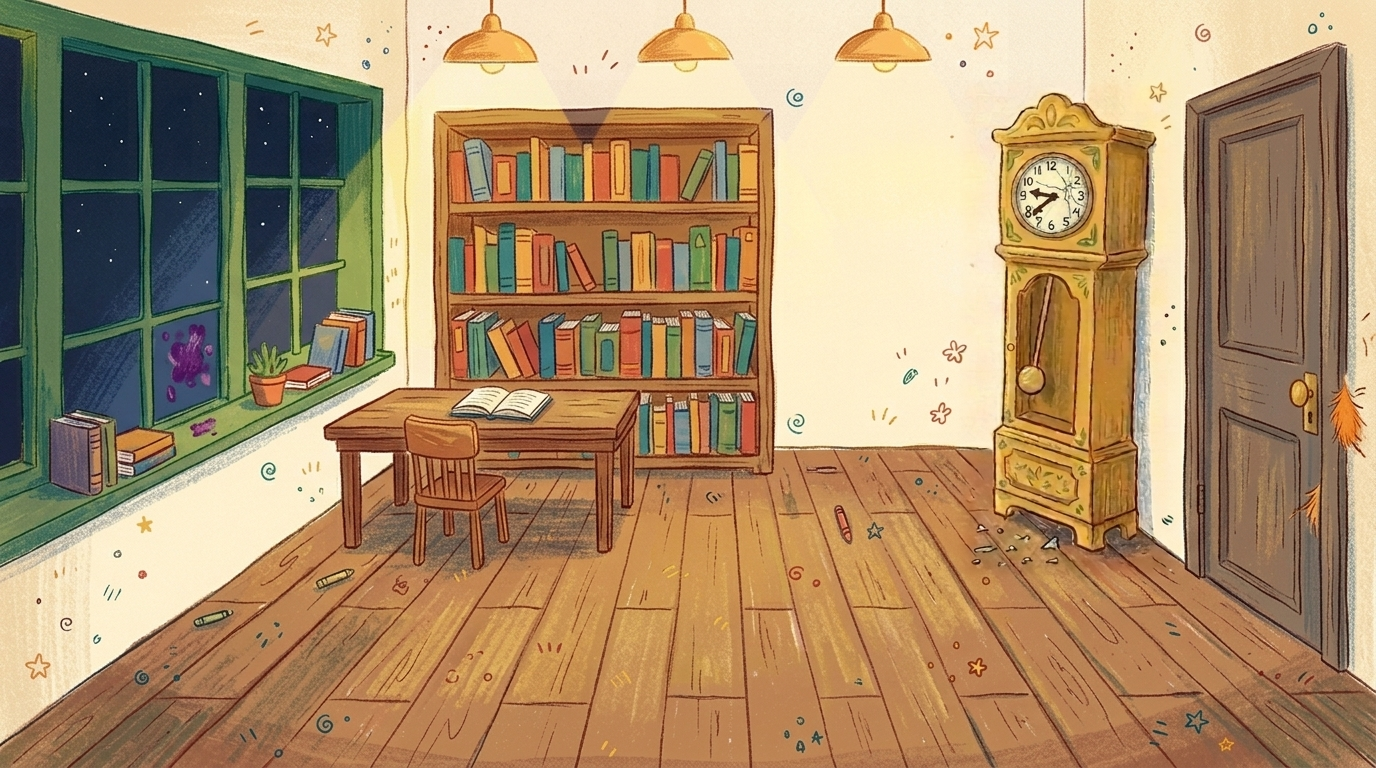
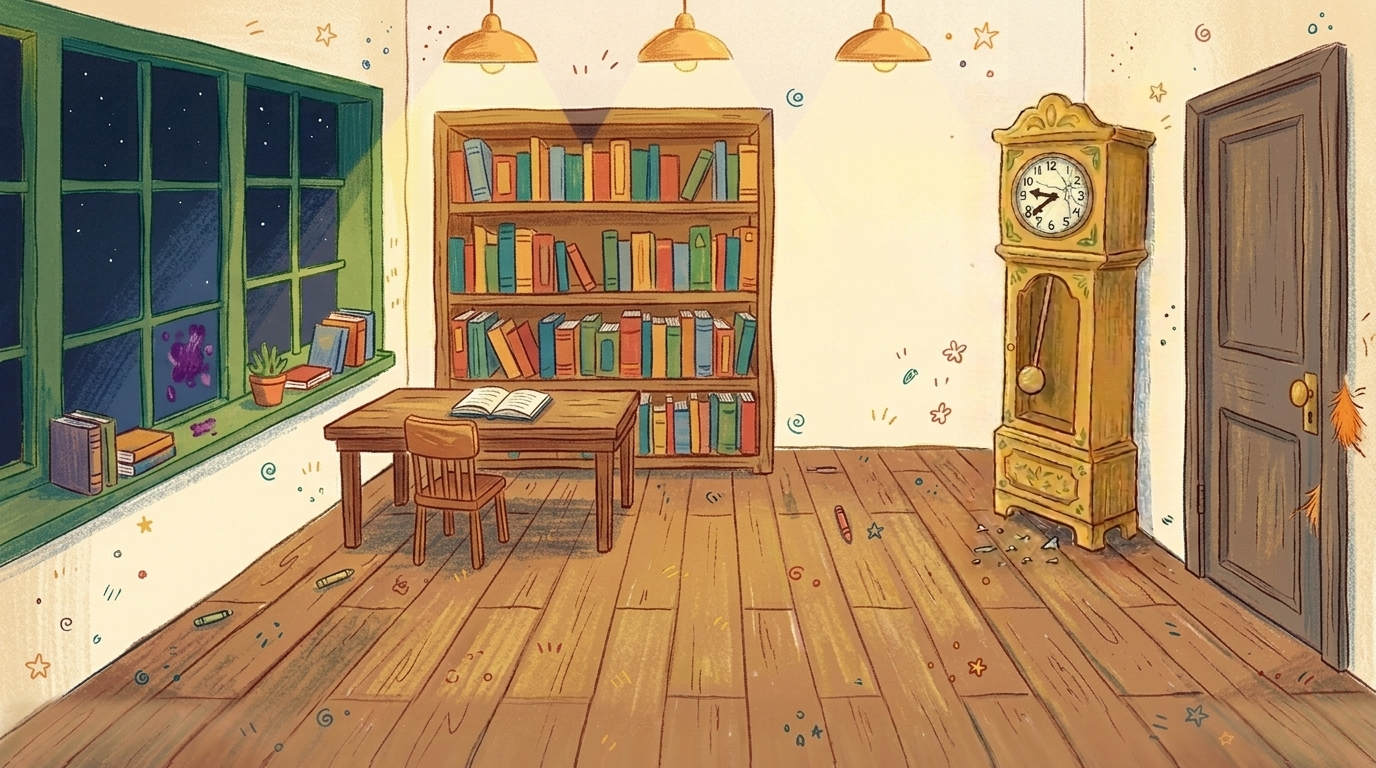
Cafe poster lettering painted into the picture; library floor seam band repainted

Changed region(s): [[0.0, 0.9062, 0.4375, 1.0], [0.8125, 0.9062, 1.0, 1.0], [0.5625, 0.9062, 0.7812, 1.0]]

diff --git a/index.html b/index.html
@@ -4134,13 +4134,7 @@ const ART = {
     <image href="assets/places/bakery-higgsfield.png" width="1376" height="768"/>`,
 
   cafe: () => `
-    <image href="assets/places/cafe-higgsfield.png" width="1376" height="768"/>
-    <g transform="rotate(-1.5 762 212)" text-anchor="middle">
-      <text x="762" y="190" font-family="'Paperlogy Display', sans-serif" font-size="23" fill="#C96F86">LIVE</text>
-      <text x="762" y="214" font-family="'Paperlogy Display', sans-serif" font-size="17" fill="#4A3628">MUSIC</text>
-      <text x="762" y="244" font-family="Paperlogy, sans-serif" font-weight="700" font-size="14.4" fill="#4A3628">Ray Raccoon</text>
-      <text x="762" y="266" font-family="Paperlogy, sans-serif" font-weight="700" font-size="13.6" fill="#4A3628">8:00–9:30</text>
-    </g>`,
+    <image href="assets/places/cafe-higgsfield.png" width="1376" height="768"/>`,
 
   hill: () => `
     <image href="assets/places/hill-higgsfield.png" width="1376" height="768"/>`

diff --git a/assets/places/README.md b/assets/places/README.md
@@ -28,7 +28,8 @@ Use case: illustration-story. Create ONE empty background illustration for the w
 - `cafe-higgsfield.png`, `hill-higgsfield.png`: Claude Code 제작, Nano Banana 2.1 · 16:9 · 1K · thinking high. 빵집 그림을 스타일 참고 이미지로 사용했다.
 - 출처와 적용 좌표는 2026-10-15 `CLAUDE_REQUEST.md`의 인계 내용에 따른다.
 - 2026-10-27 언덕 벤치에 즉석카메라 추가(사용자 결정, 증거 `hill-5`): 지금 그림을 참조로 Nano Banana 2.1(16:9, 1K, thinking high, 1장 약 1.5크레딧)로 카메라만 그려 넣게 한 판(job `21f906f2-cb54-48ee-985d-ccaec6058da5`, `hill-camera-higgsfield-original.png`)에서 카메라 부분(x 1016–1150, y 370–502, 가장자리 4px 흐림)만 원래 그림에 옮겨 붙였다. 나머지 화면·바닥 확장은 그대로다.
-- 빵집 안내판 `CLOSED / at 7 PM`은 그림 안의 손글씨다(2026-10-27, 사용자 요청: SVG 글씨가 인위적): 이 그림을 참조로 Nano Banana 2.1 1장(job `cf013a4e-4155-4f34-81c7-889885e3c160`, `bakery-sign-higgsfield-original.png`, 약 1.5크레딧)에서 안내판 부분(x 96–212, y 200–292)만 붙였다. 카페 포스터의 공연 정보는 아직 앱의 SVG 레이어로 표시한다.
+- 빵집 안내판 `CLOSED / at 7 PM`은 그림 안의 손글씨다(2026-10-27, 사용자 요청: SVG 글씨가 인위적): 이 그림을 참조로 Nano Banana 2.1 1장(job `cf013a4e-4155-4f34-81c7-889885e3c160`, `bakery-sign-higgsfield-original.png`, 약 1.5크레딧)에서 안내판 부분(x 96–212, y 200–292)만 붙였다.
+- 카페 포스터 `LIVE / MUSIC / Ray Raccoon / 8:00 - 9:30 PM`(기타·음표 낙서 포함)도 그림 안의 손글씨다(2026-10-28, 사용자 요청): 포스터 주변(x 522–1002, y 90–360)을 3배로 키워 Nano Banana 2.1 1장(job `335f4194-15f0-4e2b-985b-8d86452715d0`, `cafe-poster-higgsfield-original.png`, 약 1.5크레딧)으로 글씨를 그려 넣게 한 뒤 포스터 부분(x 702–832, y 132–296, 가장자리 4px 흐림)만 붙였다. 앱의 SVG 글씨는 없다.
 - 새 그림에 맞춘 핫스팟은 비율 좌표, 증거 촬영 영역은 원본 픽셀 좌표(4:3)로 `PLACES`에 지정한다.
 
 # 대화용 바닥 확장 (`<id>-floor.jpg`)
@@ -37,6 +38,7 @@ Use case: illustration-story. Create ONE empty background illustration for the w
 - Claude Code 제작(2026-10-16): Higgsfield `outpaint_image`, 3:4 캔버스로 원본을 확장한 뒤 원본 위치를 찾아 그 아래만 잘라 원본 폭 1376에 맞췄다. 확장 전체 원본은 `<id>-outpaint-original.png`(1792×2400)로 보관한다.
 - 크기: library 1376×506, bakery 1376×518, cafe 1376×725, hill 1376×370.
 - 원본 배경을 교체하면 이 조각도 다시 만들어야 이음새가 맞는다.
+- 도서관 이음새 보정(2026-10-28, 사용자 요청: 대화 화면에서 잘린 줄이 보임): outpaint가 원본 아래 끝에 흐릿한 가로 띠를 남겼다. 그림+바닥을 이은 1376×1274에서 y 400–1174를 Nano Banana 2.1 1장(job `52afa19f-b165-4efc-b08a-218cd6a49301`, `library-seam-higgsfield-original.png`, 약 1.5크레딧)으로 띠만 다시 그리게 하고, 3px 위로 맞춘 결과의 y 700–852(가장자리 5px 흐림)만 붙인 뒤 다시 `library-higgsfield-v2.png`(y 0–768)와 `library-floor.jpg`(y 768–1274)로 나눴다. 핫스팟·크레용 증거 좌표는 그대로다.
 
 # 마을 지도 (`village-map-higgsfield.png`)
 

diff --git a/HANDOFF.md b/HANDOFF.md
@@ -437,8 +437,8 @@ node server.js            # http://localhost:5173/
 | 도서관 | `places/library-higgsfield-v2.png` | 사용자 제작, 1376×768 |
 | 피해자 분필 윤곽선 | `places/library-chalk-owl.png` | Claude 제작(Nano Banana 2.1, job 418fefc0), 640×450 투명 PNG. 검은 배경 위 흰 분필 선을 밝기로 투명도를 만들고 선을 조금 굵혔다. 원본 `library-chalk-owl-original.png` |
 | 빵집 | `places/bakery-higgsfield.png` | 사용자 제작, 1376×768 |
-| 카페·언덕 | `places/cafe-higgsfield.png`, `places/hill-higgsfield.png` | Claude 제작, 1376×768. 카페는 카운터 뒤 오리를 지운 판, 언덕은 벤치에 즉석카메라를 더한 판 |
-| 바닥 확장 | `places/<id>-floor.jpg` | outpaint로 원본 아래를 이어 그림(높이 370–725). 원본 `*-outpaint-original.png` |
+| 카페·언덕 | `places/cafe-higgsfield.png`, `places/hill-higgsfield.png` | Claude 제작, 1376×768. 카페는 카운터 뒤 오리를 지우고 공연 포스터 글씨를 그림 안에 그려 넣은 판, 언덕은 벤치에 즉석카메라를 더한 판 |
+| 바닥 확장 | `places/<id>-floor.jpg` | outpaint로 원본 아래를 이어 그림(높이 370–725). 원본 `*-outpaint-original.png`. 도서관은 원본 아래 끝의 흐린 띠를 다시 그려 이음새를 지움(`assets/places/README.md`) |
 | 튜토리얼 그림 | `ui/tutorial/tut-1…6.webp` | Claude 제작, 실제 게임 화면을 잘라 합성(사용자 결정), 900×720. 만드는 법·자르는 기준은 같은 폴더 README |
 | 마을 지도 | `places/village-map-higgsfield.png` | Claude 제작, 768×1376, 글자 없음 |
 | 파출소 조사실 | `places/station-interview-room.png` | Codex 기본 이미지 생성 도구 제작, 1254×1254. 대화 전용, 바닥 포함, 인물·문자 없음 |
@@ -547,7 +547,7 @@ node server.js            # http://localhost:5173/
 ## 11. 알려진 이슈와 주의점
 
 - **미리보기 탭 공유**: Claude Code의 브라우저 패널은 사용자도 같이 쓴다. 시험은 새 탭에서 하고, 사용자 탭을 새로고침하거나 조작하지 않는다.
-- **글꼴**은 모두 페이퍼로지(Paperlogy)다(사용자 결정, `assets/fonts/README.md`). `--f-hand`도 같은 글꼴을 사용한다. 다른 글꼴로 바꾸면 노트 빈칸이 줄바꿈되지 않는지, 빵집 안내문·카페 포스터·튜토리얼 그림 속 글자가 틀 밖으로 나가지 않는지 확인한다.
+- **글꼴**은 모두 페이퍼로지(Paperlogy)다(사용자 결정, `assets/fonts/README.md`). `--f-hand`도 같은 글꼴을 사용한다. 다른 글꼴로 바꾸면 노트 빈칸이 줄바꿈되지 않는지, 튜토리얼 그림 속 글자가 틀 밖으로 나가지 않는지 확인한다.
 - **바닥 확장 이음새**: outpaint 결과에서 원본 위치를 찾아 잘랐다. 배경을 바꾸면 다시 만들어야 한다. 카페 바닥(725px)은 가장 길다.
 - **리듬형 입 모션**은 음량·음소 분석 립싱크가 아니다.
 - **서버 파일 감시**는 `.git`도 감시해 커밋·문서 수정만으로도 미리보기가 새로고침된다.
